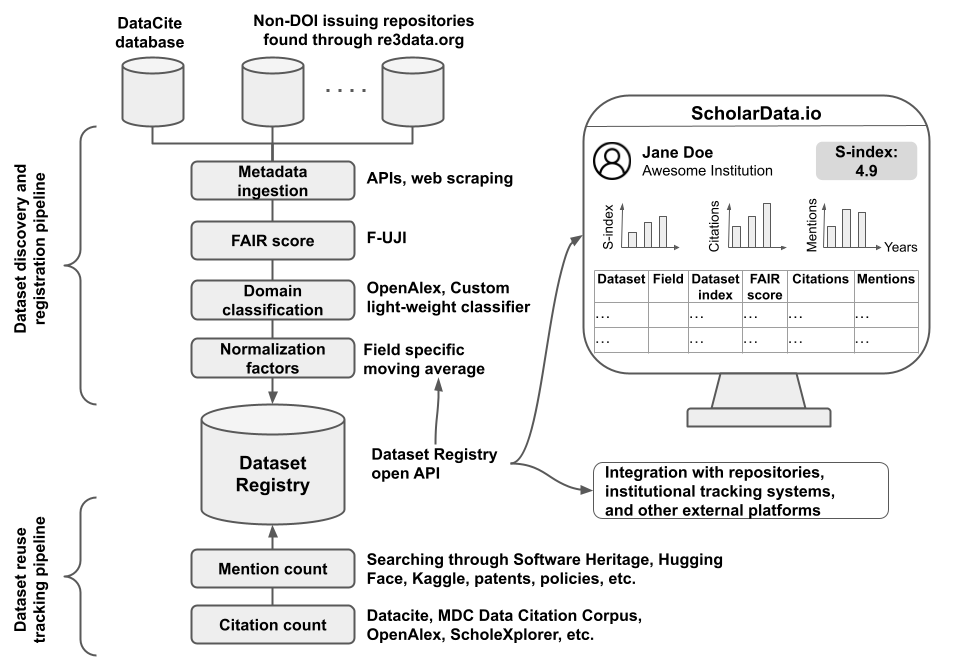
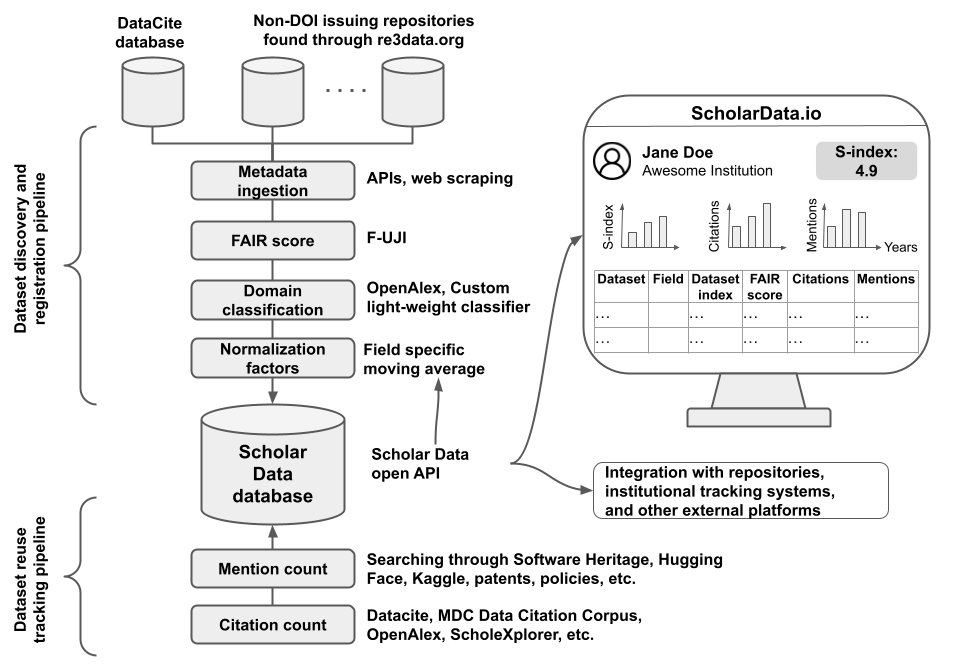
feat: s-index guide pages

Changed region(s): [[0.2188, 0.6562, 0.3438, 0.75], [0.375, 0.6562, 0.5312, 0.6875]]

diff --git a/docs/.vitepress/config.ts b/docs/.vitepress/config.ts
@@ -91,7 +91,7 @@ export default defineConfig({
         text: "Browse and Explore",
         link: "/using-scholar-data/browse-explore",
       },
-      { text: "Concepts", link: "/concepts" },
+      { text: "Concepts", link: "s-index-guide/concepts" },
       { text: "Data Collection", link: "/data-collection/datasets" },
     ],
 
@@ -119,9 +119,25 @@ export default defineConfig({
         ],
       },
       {
-        text: "Concepts",
-        link: "concepts",
-        items: [],
+        text: "S-index Guide",
+        items: [
+          {
+            text: "Concepts",
+            link: "s-index-guide/concepts",
+          },
+          {
+            text: "Design Rationale",
+            link: "s-index-guide/design",
+          },
+          {
+            text: "Understanding Your S-index",
+            link: "s-index-guide/understanding",
+          },
+          {
+            text: "Improving",
+            link: "s-index-guide/improving",
+          },
+        ],
       },
       {
         text: "Data Collection",

diff --git a/docs/s-index-guide/design.md b/docs/s-index-guide/design.md
@@ -1,0 +1,45 @@
+# Design Rationale
+
+This page explains why the S-index is built the way it's described in [Concepts](/concepts), and which alternatives we considered and rejected along the way.
+
+## Why Citation
+
+Citation is the most obvious signal of reuse for any scholarly output. As efforts to improve dataset-citation practices mature across the field, we expect citation to become an increasingly important driver of the S-index over time.
+
+## Why Mention
+
+Reuse of a dataset doesn't always show up as a citation in a manuscript. Datasets are frequently reused in code, AI models, patents, and policy documents — forms of impact that are just as real but fall outside traditional citation. In our large-scale validation across 49M+ datasets, fewer than 5% had even one citation, while thousands of datasets with zero citations had at least one mention in code, AI models, or patents. Restricting the index to citations alone would make it blind to most real-world reuse today; this is why the S-index tracks alternative mentions alongside citations.
+
+## Why FAIR
+
+Citations and mentions can take time to accumulate. In our large-scale validation across 49M+ datasets, fewer than 5% had one citation or mention, so relying on them alone would leave most researchers with an S-index of 0. The FAIR component provides an incentive right away for good data stewardship, rewarding researchers as soon as they share well-prepared data. We hope this will encourage good data stewardship and rapid data sharing.
+
+## Why FAIR, Citations, and Mentions Are Weighted Equally
+
+In controlled simulations, we found that the FAIR component dominates the index at the moment of publication, providing immediate credit for sharing well-prepared data, while citations and mentions increasingly take over as reuse accrues over time. Equal weighting (one-third each) keeps this balance intact: stewardship is rewarded upfront, and long-term impact is captured as it happens.
+
+## Why Citations and Mentions Are Time-Weighted
+
+Citations and mentions are weighted using a logarithmic function of the time between the dataset's publication and the citation or mention event, so a citation on the day of publication counts as 1 and one 20 years later counts as 2. This is designed to reward sustained reuse but the rate is kept reasonable enough to not over-penalize new datasets.
+
+## Why Normalization
+
+Data-sharing practices vary widely from field to field, and evolve over time within each field. Without accounting for this, the S-index would systematically favor researchers in fields with high baseline citation rates or long-established data-sharing norms, regardless of how impactful their work actually is. Normalization factors are introduces to correct for this, so that datasets from different fields and different eras can be compared on equal footing.
+
+## Why Normalization Uses Medians, Not Means, Over a 3-Year Window
+
+In our large-scale validation, we found that FAIR scores, citations, and mentions are all heavy-tailed: a small number of datasets have very high values, and the rest cluster much lower. Medians resist being skewed by these outliers in a way that means don't. We recalculate normalization factors as a moving median over the past three years, separately for each research field, so the index stays fair across disciplines with very different data-reuse cultures and keeps pace as field-level practices evolve, without reacting to short-term noise.
+
+## What We Deliberately Left Out
+
+We chose not to include several features common in other citation-based metrics, because they're either hard to scale or can unfairly disadvantage smaller fields:
+
+- **No counting citations of citations.** The S-index only counts direct citations and mentions of a dataset itself. Counting citations of citations would add complexity both to understanding the index and to computing it at scale, for a benefit that doesn't clearly outweigh that cost.
+- **No citations to related manuscripts.** Only citations that point to the dataset directly are counted — not citations to papers that happen to describe it. This is meant to encourage proper data-citation practices rather than reward indirect association.
+- **No exclusion of self-citations or self-mentions.** Excluding them outright would risk disadvantaging researchers in smaller fields, where a higher share of legitimate reuse naturally comes from the same small group of collaborators. They're also currently rare: in our large-scale validation, only about 5% of datasets had any citation or mention at all, self or otherwise.
+- **No verification of actual usage in citations and mentions.** We don't check whether a citation or mention actually reuses the dataset's data, rather than referencing it in passing. Doing this reliably at scale is a hard accuracy problem on its own, and given how rare citations and mentions already are, the added complexity isn't currently justified.
+**No downloads or view counts.** We felt these don't necessarily reflect real reuse properly: a download or view doesn't confirm the data was actually used. Moreover, they lack transparency, since we typically don't know who downloaded or viewed a dataset. That opacity would also make gaming much harder to detect than it is for citations and mentions, which are traceable back to their source.
+
+## Guarding Against Gaming
+
+As with the h-index, some gaming is theoretically possible, for example, splitting one dataset into many small ones, or building up self-citations and mentions artificially. We don't try to prevent every possible edge case in the formula itself. Instead, Scholar Data is built to function as a transparency and integrity tool: the S-index is fully reproducible from open data stored in the database of Scholar Data, so every citation, mention, and score behind a researcher's index can be seen and traced back to its source. Simple derived indicators, like a researcher's Average Dataset Index (S-index devided by number of datasets, shown on Scholar Data profiles), also make volume-based gaming easy to spot.

diff --git a/docs/s-index-guide/improving.md b/docs/s-index-guide/improving.md
@@ -1,0 +1,29 @@
+# Improving Your S-index
+
+This page covers practical ways to grow your S-index, organized around the three components it's built from: FAIR practices, citations, and mentions. Note that they are indicative to encourage good data management and sharing practices and not ways to inflate your S-index since gaming can be easily detected as mentioned [here](/understanding)).
+
+
+## Choose Repositories That Expose Rich Metadata
+
+Your FAIR score is calculated by F-UJI based on the metadata your repository exposes. So both the repository you choose and how much metadata you provide through it matter. Share your datasets on repositories that expose metadata properly, and fill in as much metadata as the repository allows when depositing your data.
+
+To check how FAIR-enabling a repository is before choosing one, select a few of its existing datasets and run them through the [F-UJI web tool](https://www.f-uji.net/?action=test) yourself.
+
+## Prefer a DOI-Issuing Repository
+
+Citations and mentions are tracked more reliably for datasets that have a DOI. Much of the infrastructure that tracks reuse of scholarly output,including DataCite and OpenAlex, is built around DOIs, so a dataset without one is more likely to have real-world reuse go undetected. Prefer a DOI-issuing repository whenever you have the choice.
+
+## Cite Your Datasets Properly
+
+When you use your own datasets in a manuscript, cite them as a proper reference rather than mentioning them only in text. This makes the citation trackable by the infrastructure that feeds your S-index, and sets a visible example that encourages others citing your work to do the same, which, over time, adds to your dataset's citation count.
+
+## Make Your Datasets Interoperable and Reusable
+
+Datasets that are well organized, shared with standard file formats, and properly documented are easier for other researchers to reuse. Since citations and mentions only accumulate when someone actually reuses your data, making that reuse as frictionless as possible directly increases your odds of earning them.
+
+## Share More Datasets
+
+Sharing more datasets adds more Dataset Indices to your total S-index, but only if each one carries real impact. Sharing many low-impact datasets doesn't meaningfully move the needle, and is visible as such (see [Design Rationale](/design-rationale)). Treat this as a natural result of consistently sharing well-prepared, reusable data, not a shortcut on its own.
+
+## Share Early
+Citations and mentions are time-weighted, so the sooner a dataset is shared, the sooner it starts accumulating reuse, and the more that reuse counts toward your S-index over time. Waiting to share a dataset until a related manuscript is published, for example, delays this clock unnecessarily.

diff --git a/docs/s-index-guide/understanding.md b/docs/s-index-guide/understanding.md
@@ -1,0 +1,18 @@
+# Understanding Your S-index
+
+This page explains what your S-index number actually represents, and how to make sense of it once you have one.
+
+## What Your Score Represents
+
+Your S-index is the sum of the Dataset Indices of every dataset in your profile. Each Dataset Index combines that dataset's FAIR score, citations, and mentions relative to others in its field. So your overall S-index grows both as you share more datasets and as those datasets accumulate more impact over time.
+
+Because of this, two researchers can land on the same S-index for very different reasons. The total tells you the scale of your data-sharing impact, but not the shape of it. For that, you can look at other metrics like total number of datasets, total number of citations, etc. provided on your profile.
+
+## Interpreting the S-index
+An S-index of 10 across two datasets means that one average, each dataset of this researcher is 5 times more impactful than typical datasets in the field. 
+
+
+## How Well are You Doing?
+A raw S-index on its own is hard to place by itself. Is your S-index "good"?
+
+To answer that, we have integrated a ranking tool in Scholar Data where you can enter your S-index and, optionally, your research field, to see where you stand both globally and within your field against the millions of S-indices we auto computed for the validation of the S-index. You can access it here: *(Coming soon.)*

diff --git a/docs/using-scholar-data/for-researchers.md b/docs/using-scholar-data/for-researchers.md
@@ -19,7 +19,7 @@ Your datasets are driving discovery, but without a way to measure and showcase t
 
 To get started, [sign up for an account](https://scholardata.io/signup). While optional, we recommend that you provide your ORCID and affiliation so Scholar Data can suggest datasets to add to your profiles automatically.
 
-Once registered, you will have a public researcher profile that displays your datasets and impact metrics.
+Once registered, you will have a public researcher profile that displays your datasets and impact metrics. This profile will have a dedicated URL that you can include on your CV, website, and elsewhere. See, for instance, how this user integrated their Scholar Data profile link on their [university website profile page](https://profiles.auckland.ac.nz/d-nickerson), along with links to their Google Scholar, LinkedIn, and GitHub pages.
 
 To update your profile, log in and visit the **My Profile** page. From there you can edit your name, affiliation, and other details. You can also update your password and delete your profile from there.
 

diff --git a/docs/using-scholar-data/for-repositories.md b/docs/using-scholar-data/for-repositories.md
@@ -12,6 +12,10 @@ Integrations are aimed at:
 - **Lab and research group websites** that want to showcase the impact of their shared data
 - **Dashboards and reporting tools** that aggregate research output metrics
 
+## Example
+
+PhysioNet, a major NIH-supported repository, has already integrated using the Scholar Data API and now showcases our metrics on their dataset metrics page. See [here](https://physionet.org/content/mimiciv/metrics/2.2) for instance how they include the Scholar Data metrics for their MIMIC-IV dataset.
+
 ## Available Methods
 
 ### Embed Widget

diff --git a/docs/s-index-guide/concepts.md b/docs/s-index-guide/concepts.md
@@ -1,8 +1,8 @@
 # Concepts
 
-This page explains how Scholar Data calculates the S-index and Dataset Index (D-index).
+This page explains the S-index and D-index concepts we have introduced to evaluate the impact of researchers and their datasets.
 
-## Proposed S-index
+## S-index
 
 We introduce a framework in which a dataset $i$ is assigned a **D-Index** (Dataset Index) $D_i$ that combines FAIRness, scholarly citations, and alternative mentions. A researcher's **S-index** (Sharing Index) is then defined as the sum of the Dataset Indices of their $N$ datasets:
 

diff --git a/docs/index.md b/docs/index.md
@@ -23,7 +23,7 @@ features:
   - icon: 📖
     title: Understand the Methodology
     details: Learn how the S-index and D-index are calculated, what signals they combine, and how scores can be improved.
-    link: /concepts
+    link: /s-index-guide/concepts
     linkText: Concepts & methodology
 
   - icon: 🗂
